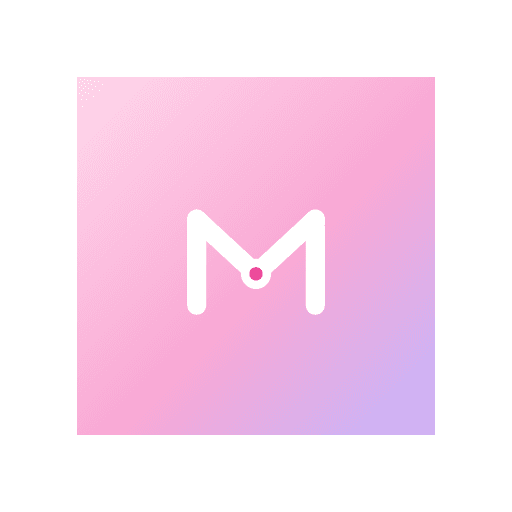
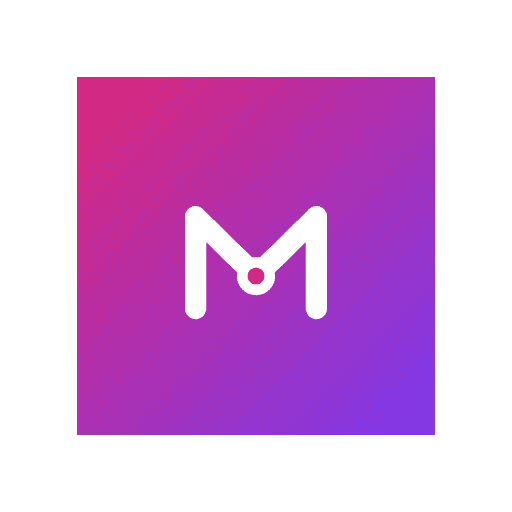
brand: сделать знак читаемым, починить фавиконку
Ревью дизайна нашло два дефекта в знаке, введённом при ребрендинге.

Контраст. Фон был светло-розовым градиентом, штрих белым: 1.28-1.85 : 1 при
минимуме 3 : 1 для графики. Знак физически не читался, особенно в размерах
иконки. Фон сделан насыщенным (#db2777 -> #7c3aed), белое на нём даёт 4.6-5.7.

Геометрия. Кружки конечных станций имели r=16, то есть диаметр 32 при толщине
штриха 34 — они целиком тонули в линии и не рисовались вообще. Убраны: на
16-48px, где иконка и живёт, мелкие детали не выживают. Остался крупный силуэт
и один акцент — пересадочный узел, у которого радиус теперь заведомо больше
половины штриха.

Фавиконкой была подставлена maskable-версия (квадрат с полем под обрезку
маской), а круглая не использовалась нигде. Теперь наоборот, как и задумано.

Все три файла собираются из одного источника, PNG перегенерированы.

diff --git a/editor.html b/editor.html
@@ -3,7 +3,7 @@
   <head>
     <meta charset="UTF-8" />
     <meta http-equiv="Content-Language" content="ru" />
-    <link rel="icon" type="image/svg+xml" href="/metro-icon-maskable.svg" />
+    <link rel="icon" type="image/svg+xml" href="/metro-icon.svg" />
     <link rel="apple-touch-icon" href="/apple-touch-icon-180x180.png" sizes="180x180" />
     <meta name="viewport" content="width=device-width, initial-scale=1, viewport-fit=cover" />
     <meta name="apple-mobile-web-app-capable" content="yes" />

diff --git a/index.html b/index.html
@@ -3,7 +3,7 @@
   <head>
     <meta charset="UTF-8" />
     <meta http-equiv="Content-Language" content="ru" />
-    <link rel="icon" type="image/svg+xml" href="/metro-icon-maskable.svg" />
+    <link rel="icon" type="image/svg+xml" href="/metro-icon.svg" />
     <link rel="apple-touch-icon" href="/apple-touch-icon-180x180.png" sizes="180x180" />
     <meta name="viewport" content="width=device-width, initial-scale=1, viewport-fit=cover" />
     <meta name="apple-mobile-web-app-capable" content="yes" />
